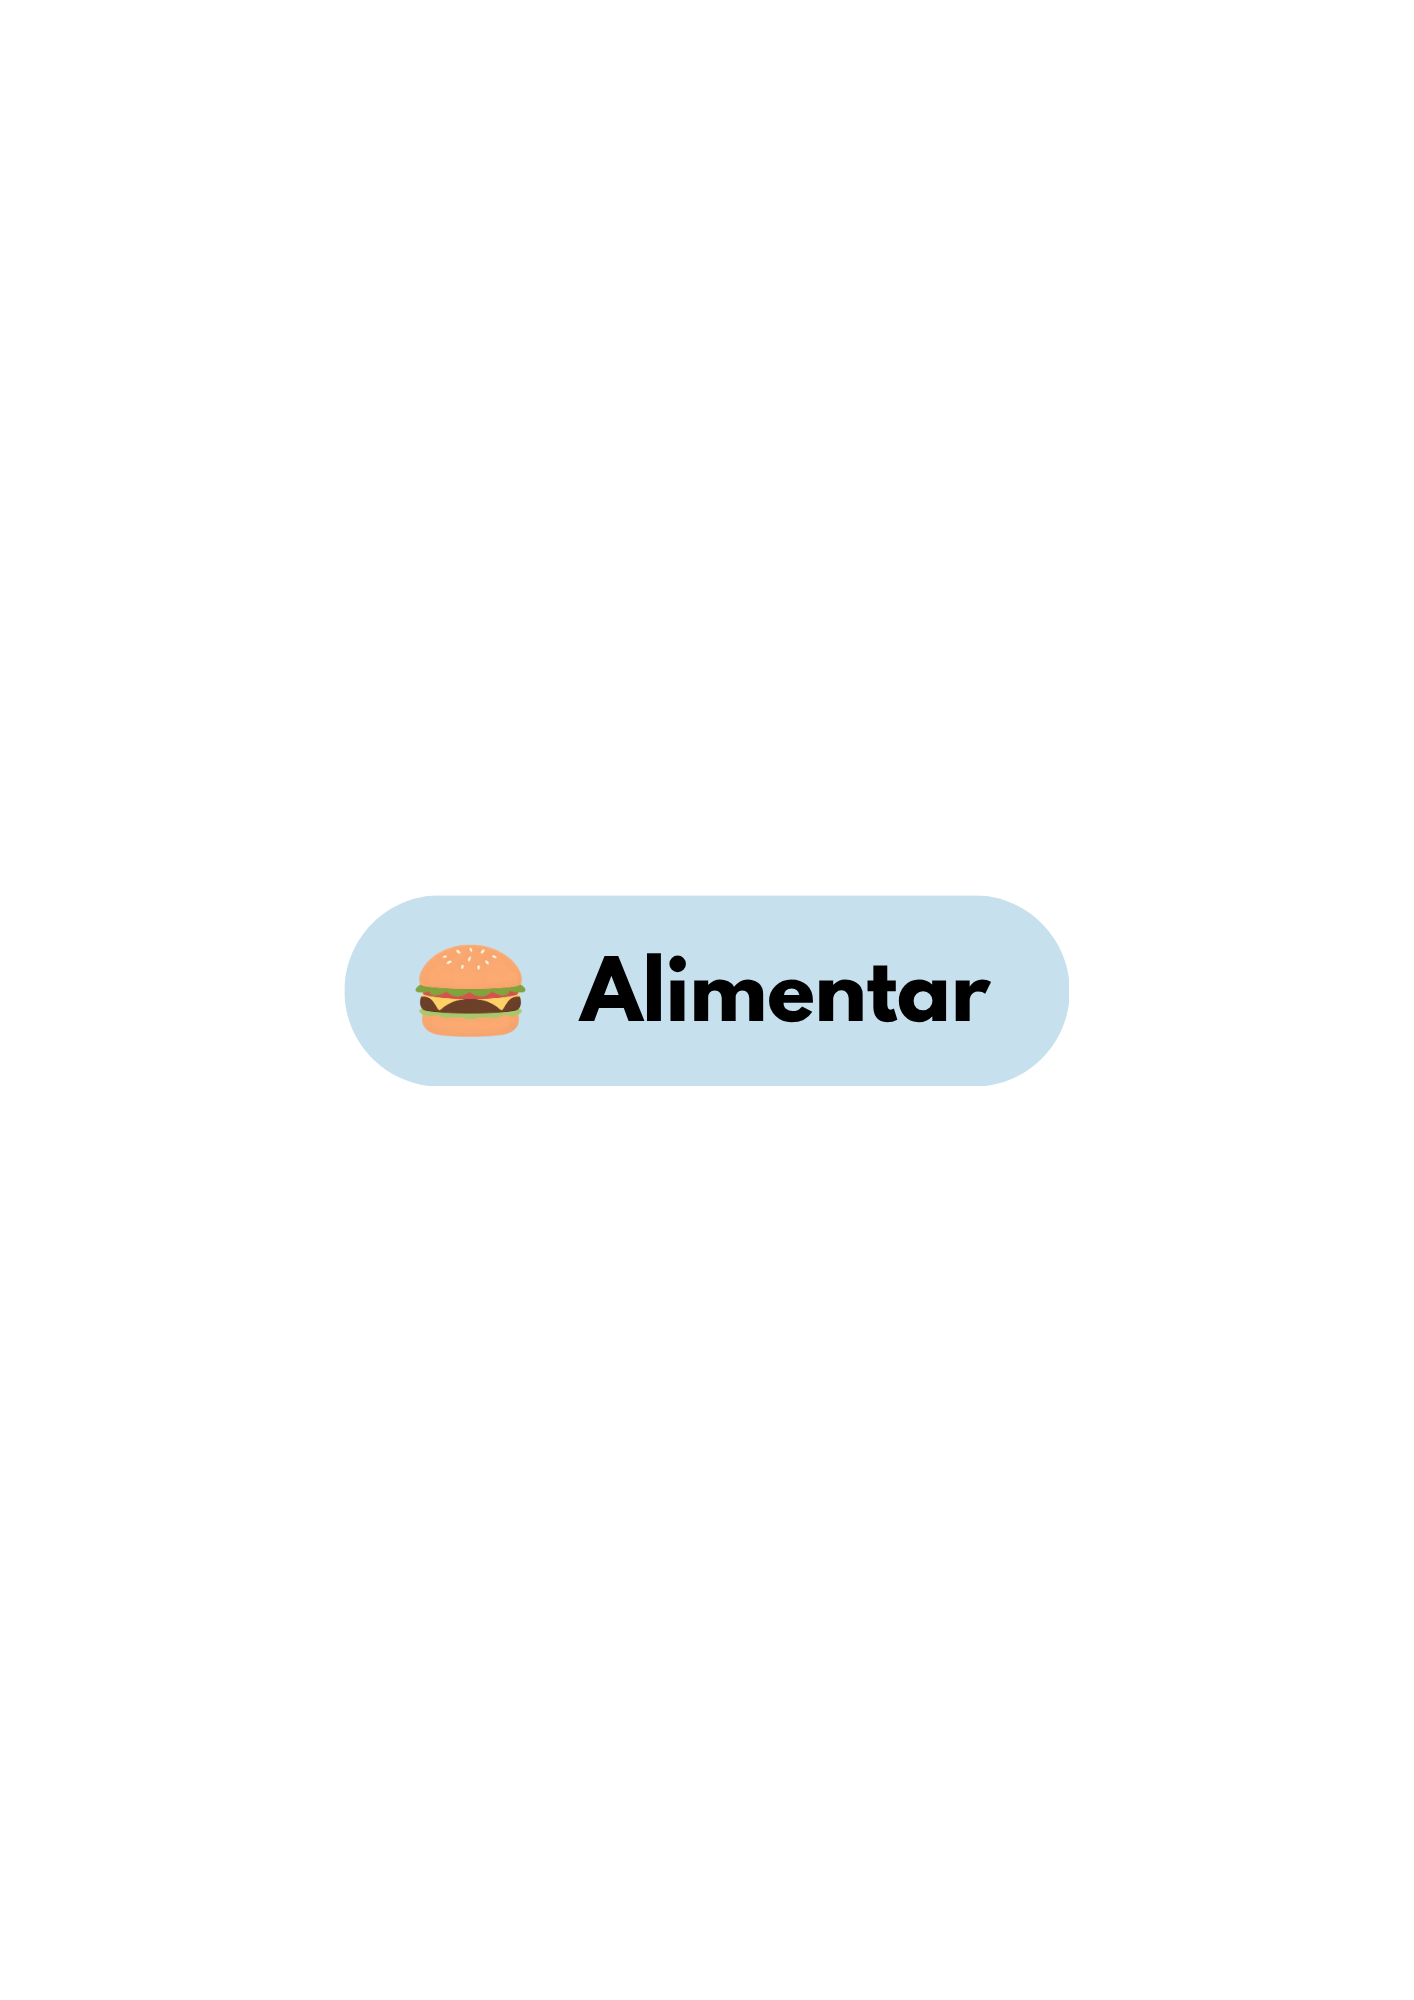
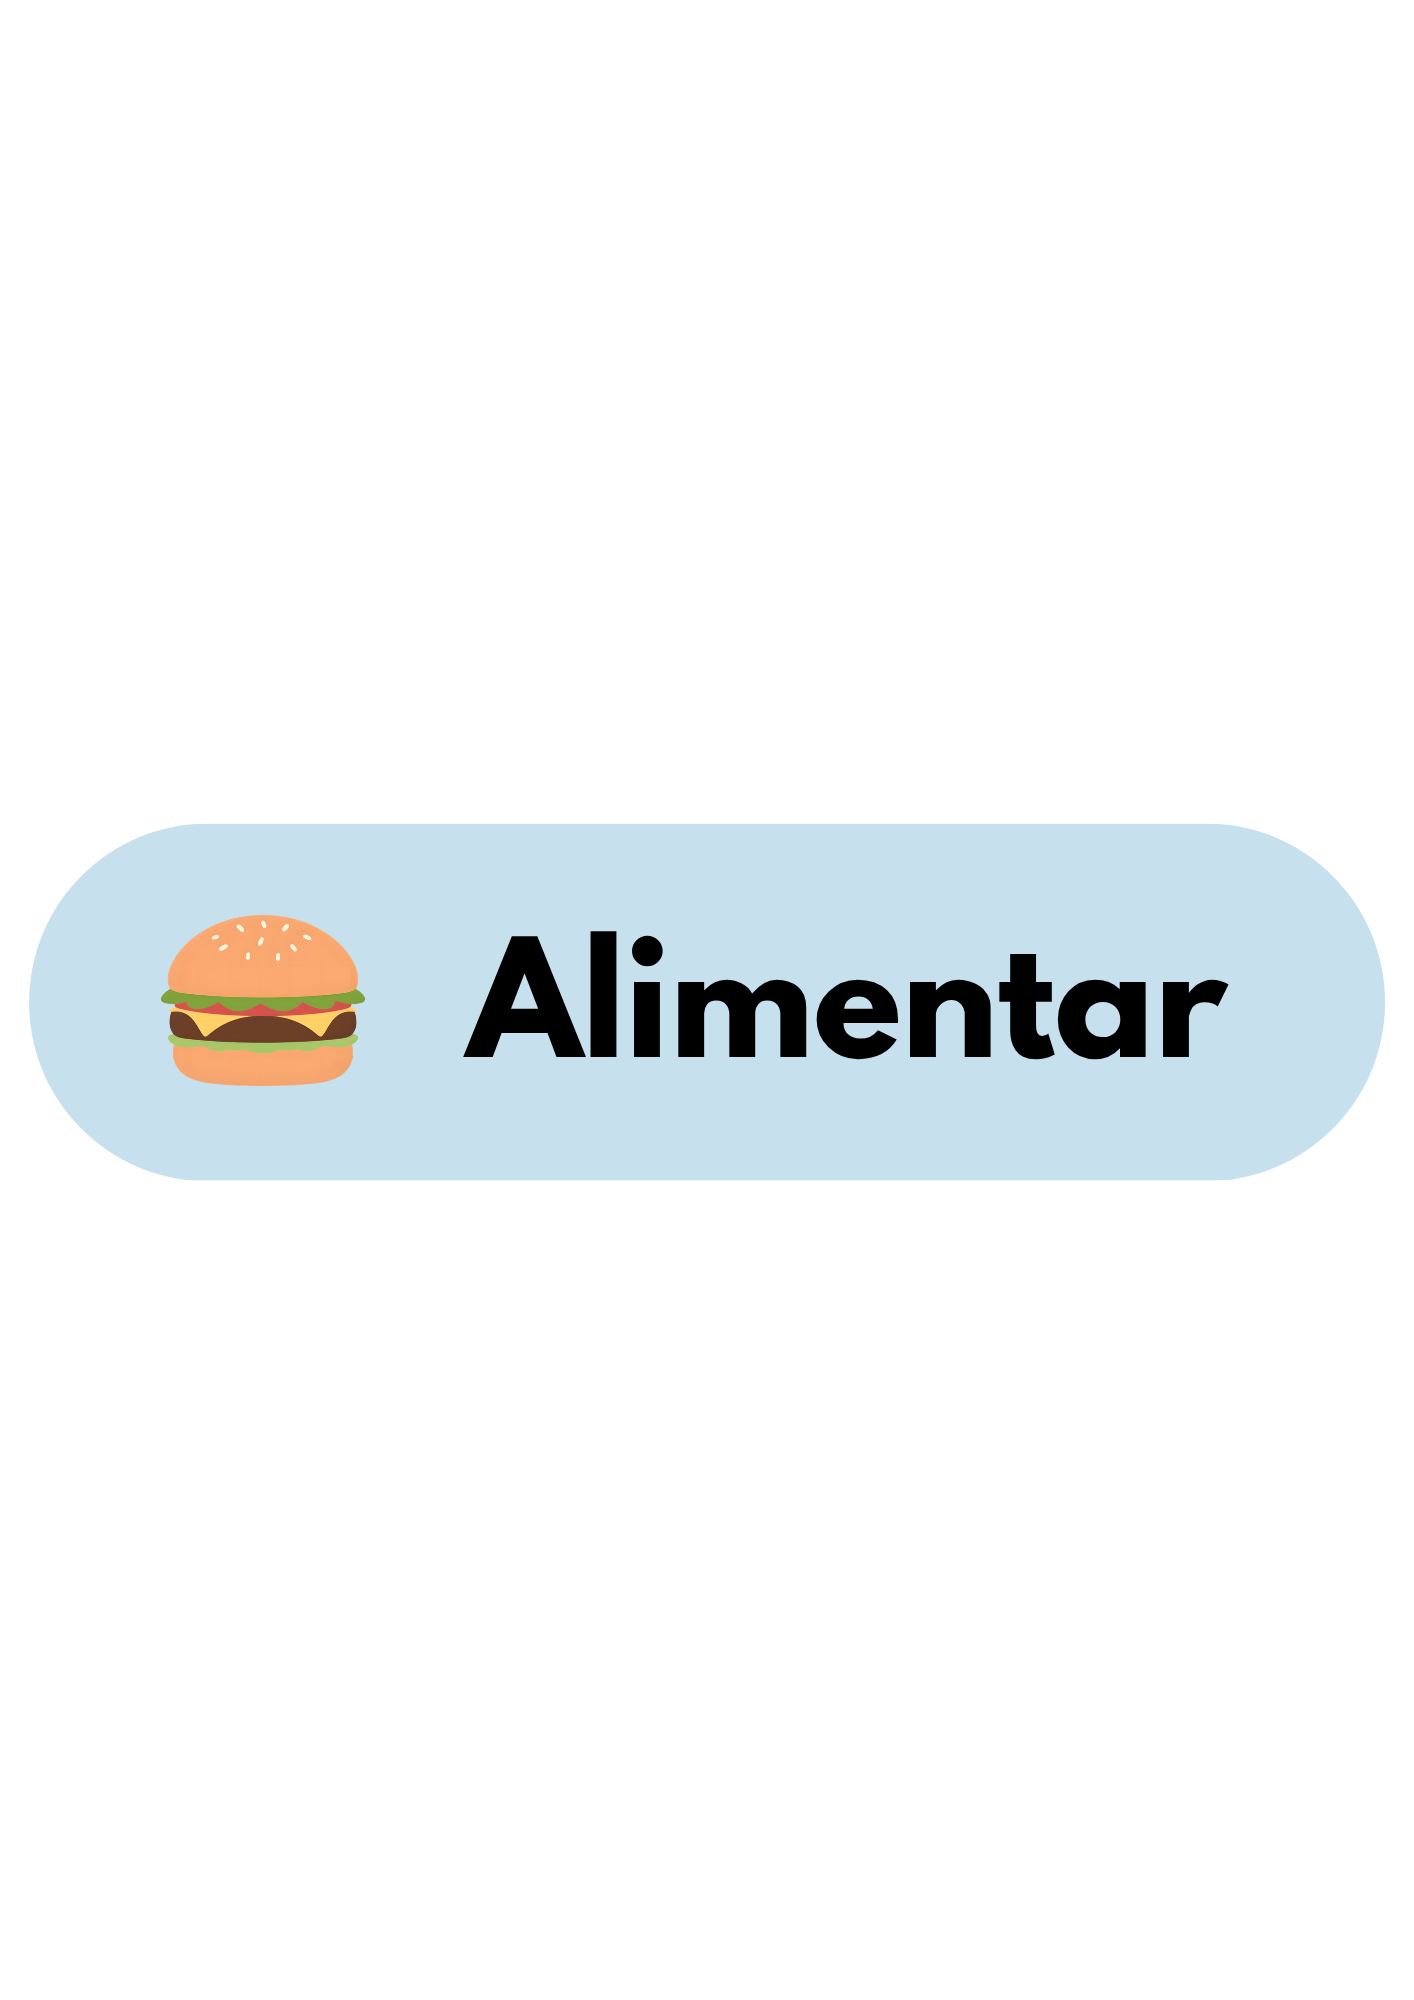
Melhora os botões e adiciona sistema de emoções

Changed region(s): [[0.0, 0.403, 0.9958, 0.589]]

diff --git a/script.js b/script.js
@@ -1,18 +1,86 @@
 let fome = 50;
 let felicidade = 50;
+let energia = 50;
+const mochiImg = document.getElementById("mochi");
+const textoFome = document.getElementById("fome");
+const textoFelicidade = document.getElementById("felicidade");
+const textoEnergia = document.getElementById("energia");
+const textoEstado = document.getElementById("estado");
 
 const botaoAlimentar = document.getElementById("alimentar");
-const textoFome = document.getElementById("fome");
-
-botaoAlimentar.addEventListener("click", function() {
-    fome = fome + 10;
-    textoFome.textContent = "🍔 Fome: " + fome;
-});
-
 const botaoBrincar = document.getElementById("brincar");
-const textoFelicidade = document.getElementById("felicidade");
+const botaoDormir = document.getElementById("dormir");
 
-botaoBrincar.addEventListener("click", function() {
-    felicidade = felicidade + 5
+function atualizarTela() {
+    textoFome.textContent = "🍔 Fome: " + fome;
     textoFelicidade.textContent = "😊 Felicidade: " + felicidade;
+    textoEnergia.textContent = "⚡ Energia: " + energia;
+
+    atualizarEstado();
+}
+
+function atualizarEstado() {
+
+    if (fome <= 20) {
+        textoEstado.textContent = "Estado: 😡 Com fome";
+        mochiImg.src = "img/fome.png";
+        return;
+    }
+
+    if (energia <= 20) {
+        textoEstado.textContent = "Estado: 😴 Cansado";
+        mochiImg.src = "img/cansado.png";
+        return;
+    }
+
+    if (felicidade <= 30) {
+        textoEstado.textContent = "Estado: 😢 Triste";
+        mochiImg.src = "img/triste.png";
+        return;
+    }
+
+    if (fome >= 40 && energia >= 40 && felicidade >= 40) {
+        textoEstado.textContent = "Estado: 😊 Feliz";
+        mochiImg.src = "img/feliz.png";
+        return;
+    }
+
+    textoEstado.textContent = "Estado: 😐 Normal";
+    mochiImg.src = "img/normal.png";
+}
+
+botaoAlimentar.addEventListener("click", function () {
+    if (energia <= 10) return;
+
+    fome += 10;
+    energia -= 5;
+
+    atualizarTela();
 });
+
+botaoBrincar.addEventListener("click", function () {
+    if (energia <= 10) return;
+
+    felicidade += 5;
+    energia -= 10;
+    fome -= 5;
+
+    atualizarTela();
+});
+
+botaoDormir.addEventListener("click", function () {
+    energia += 20;
+    fome -= 5;
+
+    atualizarTela();
+});
+
+setInterval(() => {
+    fome -= 2;
+    felicidade -= 1;
+    energia -= 1;
+
+    atualizarTela();
+}, 12000); 
+
+atualizarTela();

diff --git a/style.css b/style.css
@@ -27,7 +27,6 @@ body {
 .quarto {
     position: relative;
     width: 100%;
-    margin: 0 auto;
 }
 
 #fundo {
@@ -39,38 +38,70 @@ body {
     width: 400px;
 
     position: absolute;
-
     bottom: -150px;
     left: 50%;
-
     transform: translateX(-50%);
 }
 
 p {
-    font-size: 20px;
+    font-size: 18px;
     text-align: center;
-}
-
-button {
-    background: transparent;
-    border: none;
-    padding: 0;
-    margin: 5px;
-    cursor: pointer;
+    margin: 5px 0;
 }
 
 .botoes {
     display: flex;
     justify-content: center;
-    gap: 10px;
-    margin-top: 10px;
+    gap: 15px;
+
+    margin-top: 20px;
 }
 
-button img {
-    width: 400px;
-    transition: transform 0.1s;
+.botoes {
+    display: flex;
+    justify-content: center;
+    gap: 15px;
+    margin-top: 20px;
 }
 
-button:active img {
-    transform: scale(0.95);
+.botoes button {
+    width: 110px;
+    height: 110px;
+
+    border: none;
+    border-radius: 20px;
+
+    cursor: pointer;
+
+    font-size: 14px;
+    font-weight: bold;
+
+    color: white;
+
+    display: flex;
+    flex-direction: column;
+    justify-content: center;
+    align-items: center;
+
+    gap: 5px;
+
+    box-shadow: 0 8px 0 rgba(0,0,0,0.25);
+
+    transition: all 0.1s ease;
+
+    user-select: none;
+}
+
+.botoes button:active {
+    transform: translateY(5px);
+    box-shadow: 0 3px 0 rgba(0,0,0,0.25);
+}
+
+#alimentar,
+#brincar,
+#dormir {
+    background: #c7e0ee;
+    color: #1f2a33;
+
+    border: 2px solid rgba(0,0,0,0.1);
 }

diff --git a/index.html b/index.html
@@ -19,7 +19,7 @@
 
         <h2>Estado Atual</h2>
 
-        <p id="estado">😊 Feliz</p>
+        <p id="estado">🍡 Estado: Feliz</p>
 
         <p id="fome">🍔 Fome: 50</p>
         <p id="felicidade">😊 Felicidade: 50</p>
@@ -27,17 +27,11 @@
 
         <div class="botoes">
 
-            <button id="alimentar">
-                <img src="img/alimentar.png">
-            </button>
+            <button id="alimentar">🍔 Alimentar</button>
 
-            <button id="brincar">
-                <img src="img/brincar.png">
-            </button>
+            <button id="brincar">🎾 Brincar</button>
 
-            <button id="dormir">
-                <img src="img/dormir.png">
-            </button>
+            <button id="dormir">😴 Dormir</button>
 
         </div>
 
